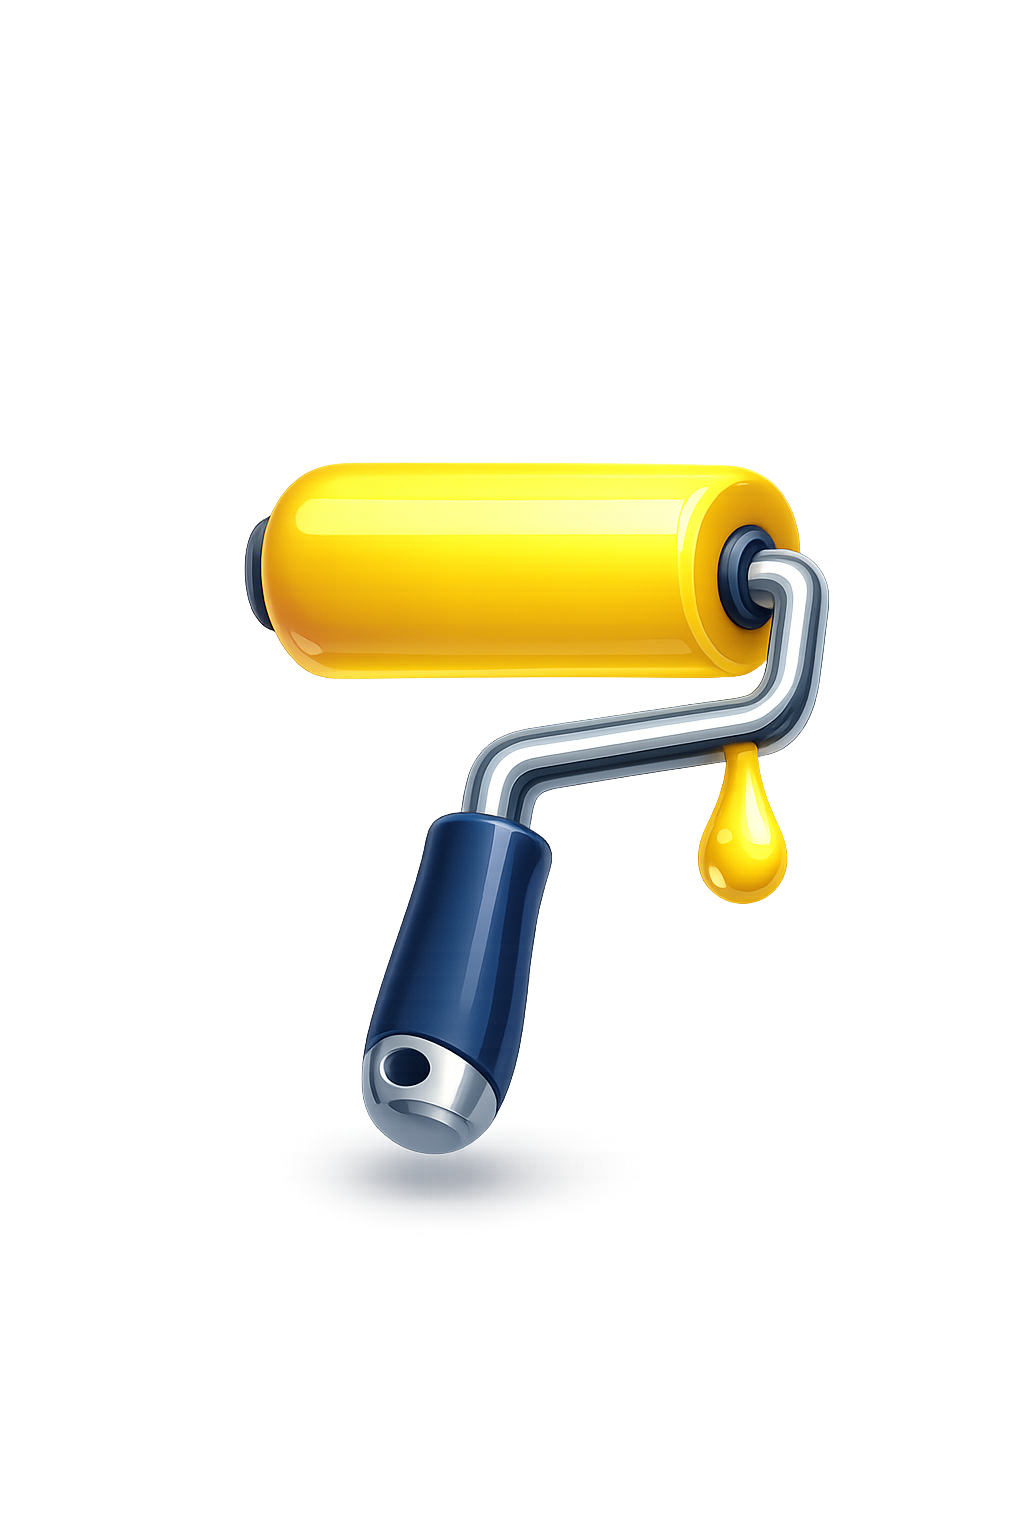
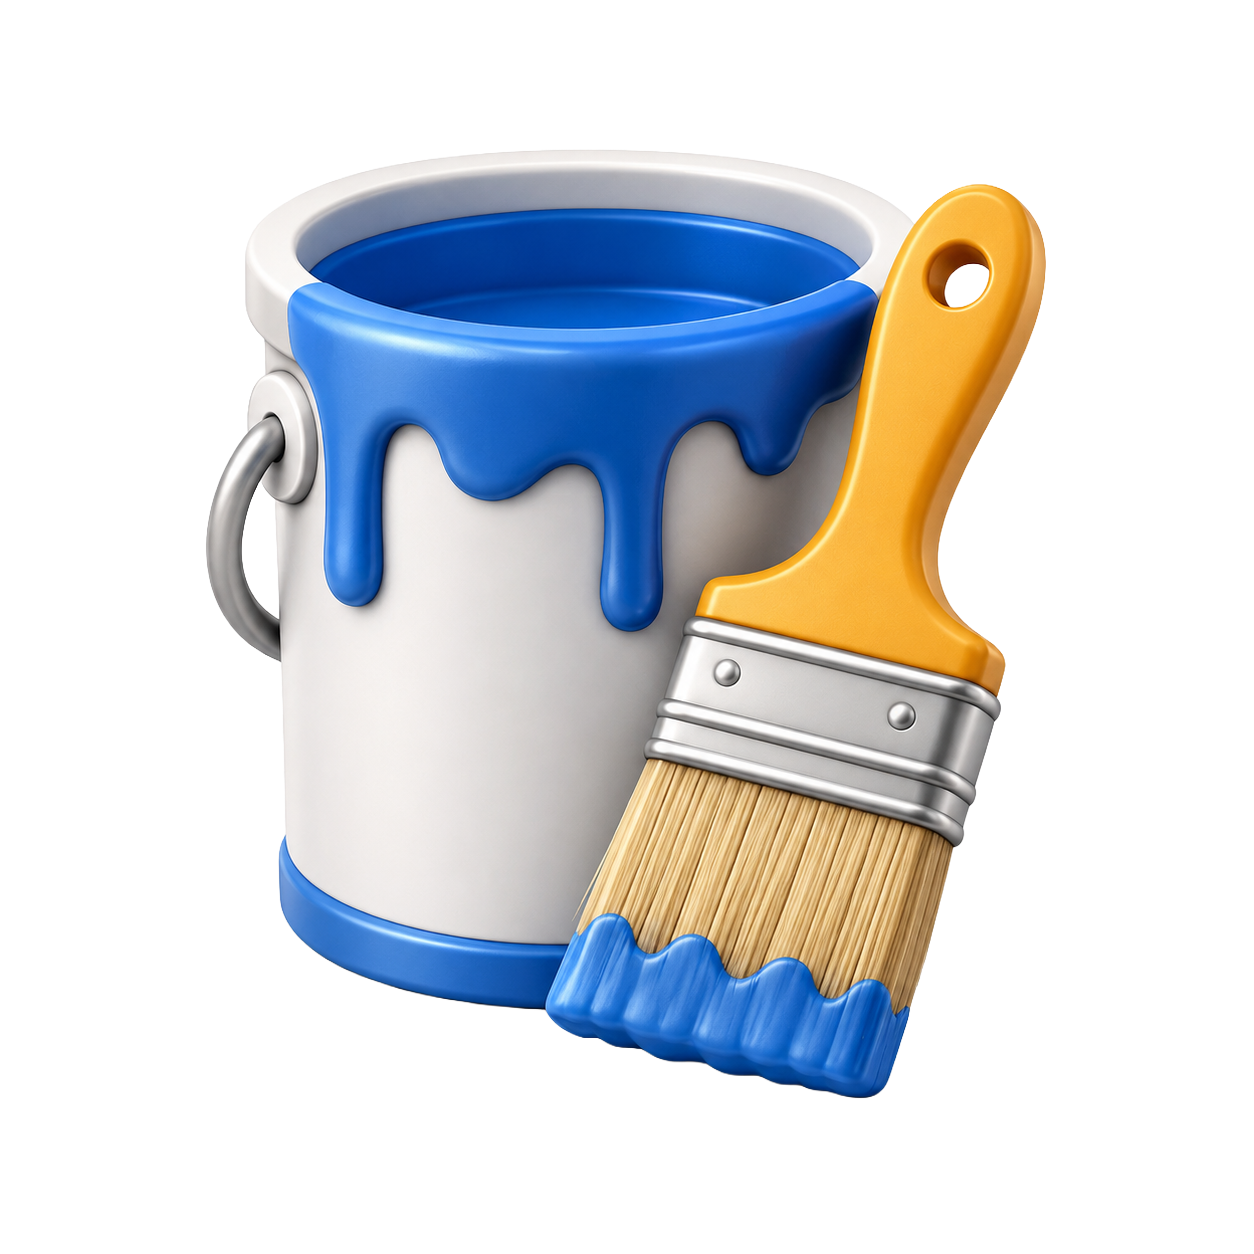
Mejoras categorías y subcategorías mobile

diff --git a/src/components/mobile/MobileHome.tsx b/src/components/mobile/MobileHome.tsx
@@ -167,33 +167,49 @@ const colores = esInicio
 
 const categorias = ["Inicio", "Ofertas", ...categoriasReales];
 
-const categoriasMobile = categorias.map((nombre) => {
-  const iconosImagen: any = {
-    Inicio: "inicio",
-    Ofertas: "ofertas",
-    Pinturas: "pinturas",
-    Aromatizantes: "aromatizantes",
-    Limpieza: "limpieza",
-    Piscina: "piscina",
-    Piscinas: "piscina",
-    Herramientas: "herramientas",
-    Plagas: "controlplagas",
-    "Control Plagas": "controlplagas",
-    "Control de Plagas": "controlplagas",
-    Jardinería: "jardineria",
-    Jardineria: "jardineria",
-    Electricidad: "electricidad",
-    Accesorios: "accesorios",
-    Plasticos: "plasticos",
-    Plásticos: "plasticos",
-    Autos: "auto",
-  };
+const ordenCategoriasMobile = [
+  "Inicio",
+  "Pinturas",
+  "Piscinas",
+  "Ofertas",
+  "Limpieza",
+  "Auto y Moto",
+  "Aromatizantes",
+  "Plásticos",
+  "Jardinería",
+  "Control Plagas",
+  "Accesorios",
+];
 
-  return {
+const iconosImagen: Record<string, string> = {
+  Inicio: "inicio",
+  Pinturas: "pinturas",
+  Piscinas: "piscina",
+  Ofertas: "ofertas",
+  Limpieza: "limpieza",
+  "Auto y Moto": "auto-y-moto",
+  Aromatizantes: "aromatizantes",
+  Plásticos: "plasticos",
+  Plasticos: "plasticos",
+  Jardinería: "jardineria",
+  Jardineria: "jardineria",
+  "Control Plagas": "control-plagas",
+  Accesorios: "accesorios",
+};
+
+const categoriasMobile = ordenCategoriasMobile
+  .filter((nombre) => {
+    if (nombre === "Inicio" || nombre === "Ofertas") return true;
+
+    return categorias.some(
+      (categoria) =>
+        categoria.trim().toLowerCase() === nombre.trim().toLowerCase()
+    );
+  })
+  .map((nombre) => ({
     nombre,
     iconoImagen: iconosImagen[nombre] || "inicio",
-  };
-});
+  }));
 
 const categoriasCarrusel = categoriasMobile;
 
@@ -487,7 +503,7 @@ return (
 
 {/* [Categorías + Banner] */}
 
-{!hayBusquedaMobile && !esPinturas && (
+{!hayBusquedaMobile && (
   <>
     <section className="relative px-4 pt-2">
       <div className="overflow-x-auto py-2 [-ms-overflow-style:none] [scrollbar-width:none] [&::-webkit-scrollbar]:hidden">
@@ -576,91 +592,127 @@ return (
 )}
   {/* [Subcategorías] */}
 
-{esCategoriaProductos && (
+{esCategoriaProductos && esPinturas && (
   <section className="px-4 pt-2">
-    <div className="mb-3 flex items-center gap-3">
-      <button
-        onClick={() => {
-          setCategoriaActiva("Inicio");
-          setSubcategoriaActiva("Todas");
-        }}
-        className="flex h-9 w-9 items-center justify-center rounded-full bg-white text-[#123A72] shadow-sm ring-1 ring-blue-50 active:scale-95"
-      >
-        ←
-      </button>
+    <div className="overflow-x-auto pb-4 [-ms-overflow-style:none] [scrollbar-width:none] [&::-webkit-scrollbar]:hidden">
+      <div className="flex w-max gap-2.5 pr-4">
+        {subcategoriasPinturas.map((subcategoria) => {
+          const activa = subcategoriaActiva === subcategoria;
 
-      <div>
-        <h2 className="text-[21px] font-black leading-none tracking-[-0.05em] text-[#123A72]">
-          {categoriaActiva}
-        </h2>
+          const imagenesSubcategorias: Record<string, string> = {
+            Todas: "pintura-int-ext.png",
 
-        <p className="mt-1 text-[10px] font-semibold text-gray-500">
-          Elegí una subcategoría
-        </p>
-      </div>
-    </div>
+            Aerosol: "aerosoles.png",
+            Aerosoles: "aerosoles.png",
 
-    {esPinturas && (
-      <div className="mt-2 overflow-x-auto pb-5 [-ms-overflow-style:none] [scrollbar-width:none] [&::-webkit-scrollbar]:hidden">
-        <div className="flex w-max gap-3 pr-4">
-          {subcategoriasPinturas.map((subcategoria) => {
-            const activa = subcategoriaActiva === subcategoria;
+            Enduido: "enduidos.png",
+            Enduidos: "enduidos.png",
 
-            const iconosSubcategorias: any = {
-              Todas: PaintBucket,
-              Latex: Droplets,
-              Látex: Droplets,
-              Esmaltes: Paintbrush,
-              Impermeabilizante: ShieldCheck,
-              Impermeabilizantes: ShieldCheck,
-              Piscinas: Waves,
-              "P/ Piscinas": Waves,
-              Accesorios: Wrench,
-              Rodillos: Brush,
-              Pinceles: Brush,
-              Adhesivos: Package,
-              Diluyentes: FlaskConical,
-              Texturado: PaintBucket,
-            };
+            Madera: "madera.png",
+            Maderas: "madera.png",
 
-            const nombresCortos: any = {
-              Impermeabilizante: "Impermea.",
-              Impermeabilizantes: "Impermea.",
-              "P/ Piscinas": "Piscinas",
-            };
+            Exterior: "pintura-exterior.png",
+            "Pintura Exterior": "pintura-exterior.png",
 
-            const Icono = iconosSubcategorias[subcategoria] || PaintBucket;
-            const nombreVisible = nombresCortos[subcategoria] || subcategoria;
+            "Interior/Exterior": "pintura-int-ext.png",
+            "Interior Exterior": "pintura-int-ext.png",
+            "Int/Ext": "pintura-int-ext.png",
+            "Pintura Int/Ext": "pintura-int-ext.png",
+            "Pintura Interior/Exterior": "pintura-int-ext.png",
 
-            return (
-              <button
-                key={subcategoria}
-                onClick={() => setSubcategoriaActiva(subcategoria)}
-                className="flex w-[66px] shrink-0 flex-col items-center gap-1.5 text-center transition active:scale-95"
-              >
-                <div
-                  className={`flex h-[58px] w-[58px] items-center justify-center rounded-full border transition-all duration-200 ${
-                    activa
-                      ? "border-[#F8A400] bg-[#F8A400] text-white shadow-[0_8px_18px_rgba(248,164,0,0.24)]"
-                      : "border-gray-100 bg-white text-[#123A72] shadow-[0_4px_10px_rgba(0,0,0,0.06)]"
+            Interior: "pintura-interior.png",
+            "Pintura Interior": "pintura-interior.png",
+
+            Piscina: "piscinas.png",
+            Piscinas: "piscinas.png",
+            "P/ Piscinas": "piscinas.png",
+            "Pinturas para Piscinas": "piscinas.png",
+
+            Piso: "pisos.png",
+            Pisos: "pisos.png",
+            "Pintura para Pisos": "pisos.png",
+
+            Sellador: "sellador-fijador.png",
+            Fijador: "sellador-fijador.png",
+            "Sellador Fijador": "sellador-fijador.png",
+            "Selladores y Fijadores": "sellador-fijador.png",
+
+            Sintético: "sintetico-3-en-1.png",
+            Sintetico: "sintetico-3-en-1.png",
+            "Sintético 3 en 1": "sintetico-3-en-1.png",
+            "Sintetico 3 en 1": "sintetico-3-en-1.png",
+
+            Texturado: "texturado.png",
+            Texturados: "texturado.png",
+
+            "Pinceles y Rodillos": "pinceles-y-rodillos.png",
+            "Pinceles & Rodillos": "pinceles-y-rodillos.png",
+            "Pinceles-Rodillos": "pinceles-y-rodillos.png",
+            "Pinceles/Rodillos": "pinceles-y-rodillos.png",
+          };
+
+          const nombresVisibles: Record<string, string> = {
+            Todas: "Todas",
+
+            "P/ Piscinas": "Piscinas",
+            "Pinturas para Piscinas": "Piscinas",
+
+            "Pintura Interior/Exterior": "Interior / Exterior",
+            "Pintura Int/Ext": "Interior / Exterior",
+
+            "Selladores y Fijadores": "Sellador / Fijador",
+
+            "Sintetico 3 en 1": "Sintético 3 en 1",
+
+            "Pinceles & Rodillos": "Pinceles y Rodillos",
+            "Pinceles-Rodillos": "Pinceles y Rodillos",
+            "Pinceles/Rodillos": "Pinceles y Rodillos",
+          };
+
+          const imagen =
+            imagenesSubcategorias[subcategoria] || "pintura-int-ext.png";
+
+          const nombreVisible =
+            nombresVisibles[subcategoria] || subcategoria;
+
+          return (
+            <button
+              key={subcategoria}
+              onClick={() => setSubcategoriaActiva(subcategoria)}
+              className={`group w-[92px] shrink-0 overflow-hidden rounded-[16px] border bg-white text-left shadow-sm transition-all duration-200 active:scale-95 ${
+                activa
+                  ? "border-[#F8A400] shadow-[0_8px_20px_rgba(248,164,0,0.18)] ring-2 ring-[#F8A400]/20"
+                  : "border-gray-100"
+              }`}
+            >
+              <div className="relative h-[70px] w-full overflow-hidden bg-gray-100">
+                <img
+                  src={`/iconos/subcategorias/${imagen}`}
+                  alt={nombreVisible}
+                  className={`h-full w-full object-cover transition-transform duration-300 group-hover:scale-105 ${
+                    activa ? "scale-[1.03]" : ""
                   }`}
-                >
-                  <Icono size={24} strokeWidth={2.1} />
-                </div>
+                />
 
+                {activa && (
+                  <div className="absolute inset-0 bg-[#F8A400]/10" />
+                )}
+              </div>
+
+              <div className="flex min-h-[42px] items-center px-2 py-1.5">
                 <span
-                  className={`line-clamp-2 text-[9.5px] font-black leading-tight ${
-                    activa ? "text-[#F8A400]" : "text-gray-800"
+                  className={`line-clamp-2 text-[9px] font-black leading-[1.05] ${
+                    activa ? "text-[#F8A400]" : "text-[#123A72]"
                   }`}
                 >
                   {nombreVisible}
                 </span>
-              </button>
-            );
-          })}
-        </div>
+              </div>
+            </button>
+          );
+        })}
       </div>
-    )}
+    </div>
   </section>
 )}
 